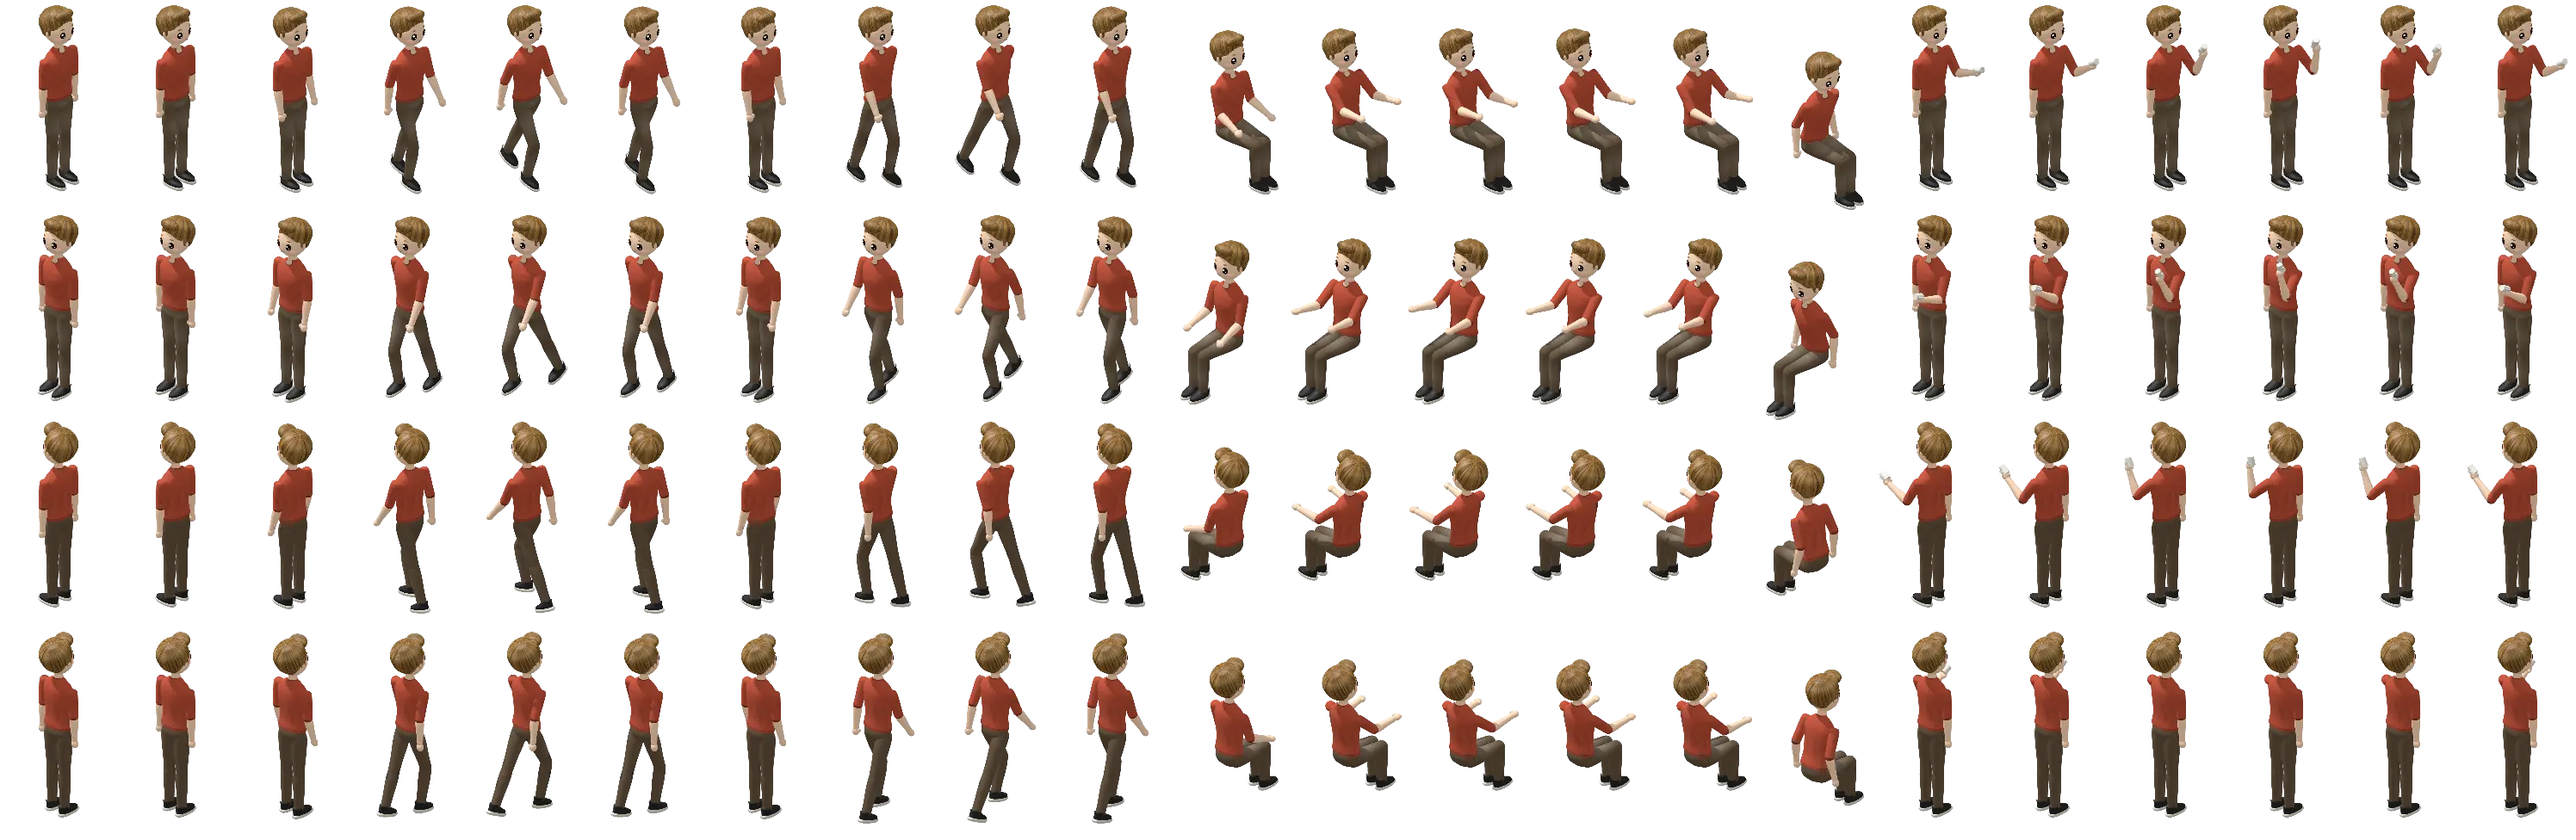
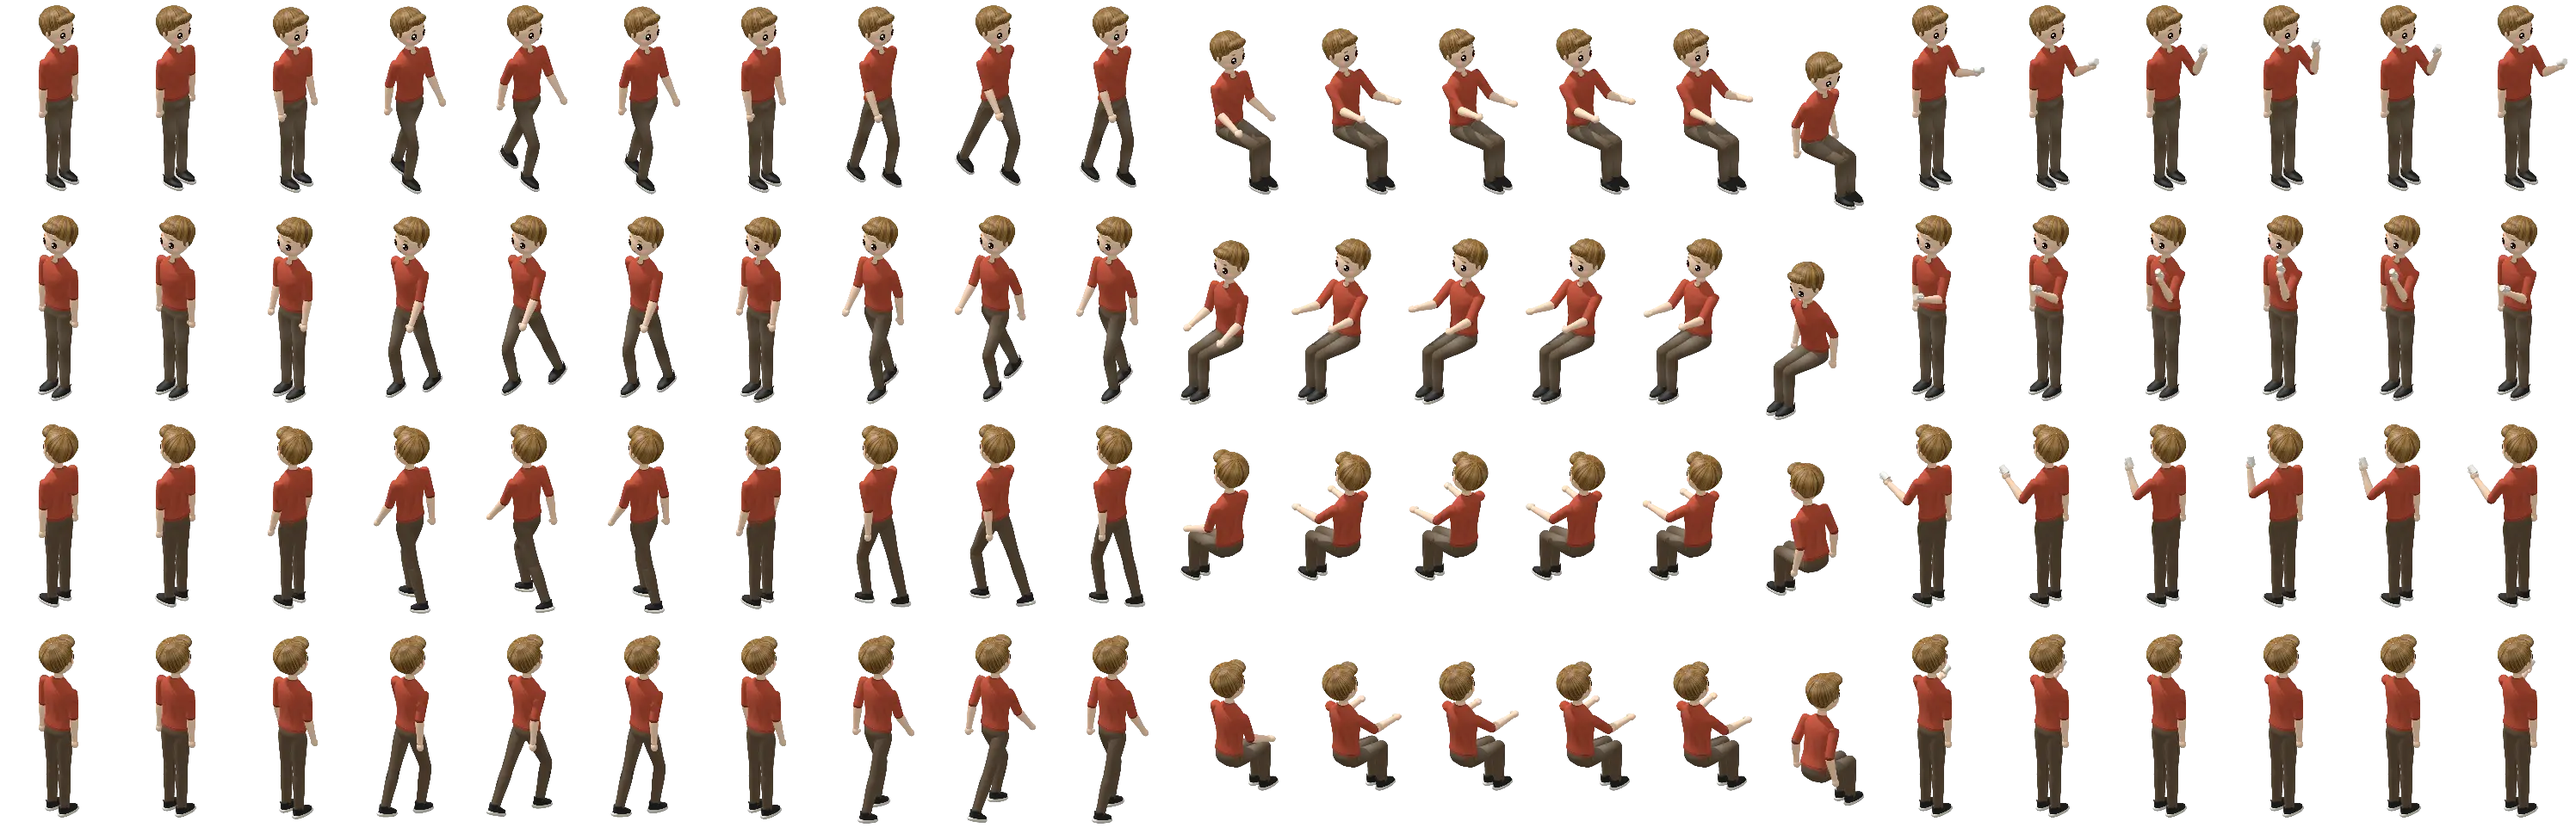
feat(rendering): show a name tag on the selected character
Replace the arrow above the selected character with a speech bubble
holding their first name, baked once per name into a canvas texture.
Keep the selection ring on the floor so furniture always covers it,
including when the character is seated.

Also fix the new character art: buns were clipped by the top of the
frame and the quiff looked like a bun from behind.

Refs: T:ART

diff --git a/src/rendering/characterSprites.ts b/src/rendering/characterSprites.ts
@@ -12,10 +12,11 @@ import {
   sheetOrigin,
   type SheetMeta,
 } from './characterSheets';
+import { firstNameOf, NAME_TAG, nameTagSize } from './nameTag';
 import { SELECTION_MARKER_COLOR } from './placeholderStyle';
-import { CHARACTER_SHADOW_DEPTH, gridToScreen } from './projection';
+import { CHARACTER_RING_DEPTH, CHARACTER_SHADOW_DEPTH, gridToScreen } from './projection';
 
-// Własne postacie low poly pre-renderowane do atlasów WebP (tools/furniture-render), jeden atlas
+// Własne postacie pre-renderowane do atlasów WebP (tools/furniture-render), jeden atlas
 // na osobę z listy postaci: wiersz = kierunek, kolumny = klatki kolejnych animacji.
 const ATLAS_URLS = import.meta.glob<string>('../assets/characters/*.webp', {
   eager: true,
@@ -120,41 +121,58 @@ function createAnimations<Kind extends PoseKind>(
 
 const WARNING_STATUSES: readonly AgentStatus[] = ['noRoute', 'deadlocked'];
 
-// Znacznik zaznaczenia (wariant D): pulsujący pierścień pod stopami i unosząca się strzałka nad
-// głową. Animują je tweeny (alfa, przesunięcie) — Graphics pierścienia przerysowujemy tylko przy
-// zmianie znacznika, a strzałka to tekstura wygenerowana raz na scenę.
-const CHEVRON_TEXTURE = 'selection-chevron';
-const CHEVRON_WIDTH = 16;
-const CHEVRON_HEIGHT = 12;
-// Strzałka nad czubkiem klatki postaci (punkt zaczepienia jest przy stopach).
-const CHEVRON_GAP = 2;
-// Siedząca postać jest niższa niż klatka — strzałka schodzi do głowy (px świata, z oka).
-const SEATED_CHEVRON_DROP = 20;
+// Znacznik zaznaczenia: pulsujący pierścień na podłodze i unoszący się dymek z imieniem nad głową.
+// Animują je tweeny (alfa, przesunięcie) — Graphics pierścienia przerysowujemy tylko przy zmianie
+// znacznika, a dymek to tekstura tworzona raz na imię, przy pierwszym zaznaczeniu.
+const NAME_TAG_TEXTURE_PREFIX = 'name-tag-';
+const NAME_TAG_SCALE = 2;
+const NAME_TAG_TEXT_COLOR = '#0d3321';
+const NAME_TAG_FONT = `600 ${String(NAME_TAG.fontSize * NAME_TAG_SCALE)}px -apple-system, BlinkMacSystemFont, 'Segoe UI', Roboto, ui-sans-serif, system-ui, sans-serif`;
+// Dymek nad czubkiem klatki postaci (punkt zaczepienia jest przy stopach).
+const NAME_TAG_GAP = 2;
+// Siedząca postać jest niższa niż klatka — dymek schodzi do głowy (px świata, z pomiaru atlasów).
+const SEATED_NAME_TAG_DROP = 16;
 const SEATED_POSES: readonly PoseKind[] = ['sitChair', 'typing', 'sitSofa'];
 const MARKER_PULSE_MS = 1400;
-const CHEVRON_LIFT = 6;
-// Strzałka to element interfejsu — zawsze nad biurem, także nad przednimi ścianami.
-const CHEVRON_DEPTH = 2_000_000;
+const NAME_TAG_LIFT = 3;
+// Dymek to element interfejsu — zawsze nad biurem, także nad przednimi ścianami.
+const NAME_TAG_DEPTH = 2_000_000;
 
-function ensureChevronTexture(scene: Phaser.Scene): void {
-  if (scene.textures.exists(CHEVRON_TEXTURE)) return;
-  const pad = 2;
-  const w = CHEVRON_WIDTH;
-  const h = CHEVRON_HEIGHT;
-  // Gruby „V” skierowany w dół.
-  const points = [
-    { x: pad, y: pad },
-    { x: pad + w * 0.32, y: pad },
-    { x: pad + w / 2, y: pad + h * 0.5 },
-    { x: pad + w * 0.68, y: pad },
-    { x: pad + w, y: pad },
-    { x: pad + w / 2, y: pad + h },
-  ].map((point) => new Phaser.Math.Vector2(point.x, point.y));
-  const graphics = scene.make.graphics({}, false);
-  graphics.fillStyle(SELECTION_MARKER_COLOR, 1).fillPoints(points, true);
-  graphics.generateTexture(CHEVRON_TEXTURE, w + pad * 2, h + pad * 2);
-  graphics.destroy();
-  scene.textures.get(CHEVRON_TEXTURE).setFilter(Phaser.Textures.FilterMode.LINEAR);
+function ensureNameTagTexture(scene: Phaser.Scene, label: string): string {
+  const key = `${NAME_TAG_TEXTURE_PREFIX}${label}`;
+  if (scene.textures.exists(key)) return key;
+  const measure = document.createElement('canvas').getContext('2d');
+  if (!measure) return key;
+  measure.font = NAME_TAG_FONT;
+  const size = nameTagSize(measure.measureText(label).width / NAME_TAG_SCALE);
+  const texture = scene.textures.createCanvas(
+    key,
+    size.width * NAME_TAG_SCALE,
+    size.height * NAME_TAG_SCALE,
+  );
+  if (!texture) return key;
+  const g = texture.getContext();
+  const width = size.width * NAME_TAG_SCALE;
+  const height = NAME_TAG.height * NAME_TAG_SCALE;
+  const tail = (NAME_TAG.tailWidth * NAME_TAG_SCALE) / 2;
+  g.fillStyle = `#${SELECTION_MARKER_COLOR.toString(16).padStart(6, '0')}`;
+  g.beginPath();
+  g.roundRect(0, 0, width, height, height / 2);
+  g.fill();
+  g.beginPath();
+  g.moveTo(width / 2 - tail, height - 1);
+  g.lineTo(width / 2 + tail, height - 1);
+  g.lineTo(width / 2, size.height * NAME_TAG_SCALE);
+  g.closePath();
+  g.fill();
+  g.fillStyle = NAME_TAG_TEXT_COLOR;
+  g.font = NAME_TAG_FONT;
+  g.textAlign = 'center';
+  g.textBaseline = 'middle';
+  g.fillText(label, width / 2, height / 2 + 1);
+  texture.refresh();
+  texture.setFilter(Phaser.Textures.FilterMode.LINEAR);
+  return key;
 }
 
 export type CharacterSprite = {
@@ -162,7 +180,9 @@ export type CharacterSprite = {
   shadow: Phaser.GameObjects.Image;
   shadowReady: boolean;
   ring: Phaser.GameObjects.Graphics;
-  chevron: Phaser.GameObjects.Image;
+  // Dymek z imieniem: tekstura ustawiana przy pierwszym zaznaczeniu.
+  nameTag: Phaser.GameObjects.Image;
+  nameTagReady: boolean;
   personId: PersonId;
   ready: boolean;
   // Atlas palenia: 'none' — jeszcze nieproszony; 'loading' — w toku (albo osoba nie ma atlasu).
@@ -172,14 +192,13 @@ export type CharacterSprite = {
   ringKey: string;
   // Tweeny znacznika zaznaczenia — działają tylko dla zaznaczonej postaci.
   markerTweens: Phaser.Tweens.Tween[];
-  // Bieżące uniesienie strzałki (animowane tweenem, stosowane przy ustawianiu pozycji).
+  // Bieżące uniesienie dymka (animowane tweenem, stosowane przy ustawianiu pozycji).
   lift: { value: number };
   destroy(): void;
 };
 
 export function createCharacterSprite(scene: Phaser.Scene, personId: PersonId): CharacterSprite {
-  ensureChevronTexture(scene);
-  const ring = scene.add.graphics();
+  const ring = scene.add.graphics().setDepth(CHARACTER_RING_DEPTH);
   const shadow = scene.add
     .image(0, 0, '__MISSING')
     .setOrigin(
@@ -194,17 +213,19 @@ export function createCharacterSprite(scene: Phaser.Scene, personId: PersonId): 
     .setOrigin(SHEET.anchorX / SHEET.frameWidth, SHEET.anchorY / SHEET.frameHeight)
     .setScale(1 / SHEET.scale)
     .setVisible(false);
-  const chevron = scene.add
-    .image(0, 0, CHEVRON_TEXTURE)
+  const nameTag = scene.add
+    .image(0, 0, '__MISSING')
     .setOrigin(0.5, 1)
-    .setDepth(CHEVRON_DEPTH)
+    .setScale(1 / NAME_TAG_SCALE)
+    .setDepth(NAME_TAG_DEPTH)
     .setVisible(false);
   const sprite: CharacterSprite = {
     body,
     shadow,
     shadowReady: false,
     ring,
-    chevron,
+    nameTag,
+    nameTagReady: false,
     personId,
     ready: false,
     smoke: 'none',
@@ -217,7 +238,7 @@ export function createCharacterSprite(scene: Phaser.Scene, personId: PersonId): 
       body.destroy();
       shadow.destroy();
       ring.destroy();
-      chevron.destroy();
+      nameTag.destroy();
     },
   };
   ensureShadowTexture(scene, () => {
@@ -253,7 +274,7 @@ function startMarkerTweens(sprite: CharacterSprite): void {
     }),
     tweens.add({
       targets: sprite.lift,
-      value: { from: 0, to: CHEVRON_LIFT },
+      value: { from: 0, to: NAME_TAG_LIFT },
       duration: MARKER_PULSE_MS / 2,
       ease: 'Sine.easeInOut',
       yoyo: true,
@@ -316,15 +337,21 @@ export function placeCharacterSprite(
   // Niewidoczna za ścianą: bez znaczników, które zdradzałyby ją przez ścianę.
   const visible = pose.alpha > 0;
   sprite.ring.setVisible(visible && (warning || selected));
-  sprite.ring.setPosition(screen.x, screen.y).setDepth(pose.depth - 0.001);
-  sprite.chevron.setVisible(visible && selected);
+  sprite.ring.setPosition(screen.x, screen.y);
+  if (selected && !sprite.nameTagReady) {
+    sprite.nameTag.setTexture(
+      ensureNameTagTexture(sprite.nameTag.scene, firstNameOf(sprite.personId)),
+    );
+    sprite.nameTagReady = true;
+  }
+  sprite.nameTag.setVisible(visible && selected);
   if (selected) {
-    sprite.chevron.setPosition(
+    sprite.nameTag.setPosition(
       screen.x,
       screen.y -
         SHEET.anchorY / SHEET.scale -
-        CHEVRON_GAP +
-        (SEATED_POSES.includes(pose.kind) ? SEATED_CHEVRON_DROP : 0) -
+        NAME_TAG_GAP +
+        (SEATED_POSES.includes(pose.kind) ? SEATED_NAME_TAG_DROP : 0) -
         sprite.lift.value,
     );
   }

diff --git a/src/rendering/projection.test.ts b/src/rendering/projection.test.ts
@@ -1,5 +1,7 @@
 import { describe, expect, it } from 'vitest';
 import {
+  CHARACTER_RING_DEPTH,
+  CHARACTER_SHADOW_DEPTH,
   cellAtScreen,
   cellCenter,
   depthOfFootprint,
@@ -10,6 +12,15 @@ import {
 } from './projection';
 
 describe('projection', () => {
+  it('znacznik pod stopami leży nad cieniem i pod każdym obiektem biura', () => {
+    expect(CHARACTER_RING_DEPTH).toBeGreaterThan(CHARACTER_SHADOW_DEPTH);
+    // Najniższy punkt świata: dojście na zewnątrz biura (x −2, y 10).
+    expect(CHARACTER_RING_DEPTH).toBeLessThan(depthOfPoint({ x: -2, y: 10 }));
+    expect(CHARACTER_RING_DEPTH).toBeLessThan(
+      depthOfFootprint({ x: 0, y: 0 }, { width: 1, height: 1 }),
+    );
+  });
+
   it('rzutuje według ART-04: screenX = (x−y)·32, screenY = (x+y)·16', () => {
     expect(gridToScreen({ x: 0, y: 0 })).toEqual({ x: 0, y: 0 });
     expect(gridToScreen({ x: 1, y: 0 })).toEqual({ x: 32, y: 16 });

diff --git a/src/rendering/nameTag.test.ts b/src/rendering/nameTag.test.ts
@@ -1,0 +1,23 @@
+import { describe, expect, it } from 'vitest';
+import { PEOPLE, PROLOGUE_OWNER } from '../domain/content/people';
+import { firstNameOf, NAME_TAG, nameTagSize } from './nameTag';
+
+describe('dymek z imieniem', () => {
+  it('pokazuje samo imię każdej osoby', () => {
+    expect(firstNameOf('ola-pikselska')).toBe('Ola');
+    expect(firstNameOf(PROLOGUE_OWNER.id)).toBe('Janusz');
+    for (const person of PEOPLE) {
+      expect(firstNameOf(person.id)).toMatch(/^\p{L}+$/u);
+    }
+  });
+
+  it('nieznana osoba nie dostaje imienia', () => {
+    expect(firstNameOf('nie-ma-takiej')).toBe('');
+  });
+
+  it('mieści tekst z marginesami i dzióbek', () => {
+    const size = nameTagSize(30.2);
+    expect(size.width).toBeGreaterThanOrEqual(30.2 + NAME_TAG.paddingX * 2);
+    expect(size.height).toBeGreaterThanOrEqual(NAME_TAG.height + NAME_TAG.tailHeight);
+  });
+});

diff --git a/tools/furniture-render/person.js b/tools/furniture-render/person.js
@@ -411,8 +411,8 @@ function addHair(head, onFace, hairStyle, hairMat, accentMat) {
     fringe(0.042, 0.034);
     nape();
     sideburns();
-    add(ball(0.058, 0.054, 0.058, hairMat, 0, 0.248, -0.062));
-    add(ball(0.03, 0.012, 0.03, accentMat, 0, 0.207, -0.048));
+    add(ball(0.052, 0.048, 0.052, hairMat, 0, 0.226, -0.066));
+    add(ball(0.03, 0.012, 0.03, accentMat, 0, 0.19, -0.052));
   }
   if (hairStyle === 'ponytail') {
     cap();
@@ -443,7 +443,7 @@ function addHair(head, onFace, hairStyle, hairMat, accentMat) {
     cap(-0.42);
     nape();
     sideburns();
-    const quiff = ball(0.072, 0.04, 0.056, hairMat, 0, 0.232, 0.052);
+    const quiff = ball(0.072, 0.036, 0.05, hairMat, 0, 0.212, 0.07);
     quiff.rotation.x = -0.5;
     add(quiff);
   }

diff --git a/src/rendering/nameTag.ts b/src/rendering/nameTag.ts
@@ -1,0 +1,22 @@
+import { personById, type PersonId } from '../domain/content/people';
+
+// Dymek z imieniem nad zaznaczoną postacią: treść i wymiary (px świata). Rysowanie — characterSprites.
+export const NAME_TAG = {
+  fontSize: 10.5,
+  paddingX: 6,
+  height: 17,
+  // Dzióbek wskazujący głowę.
+  tailWidth: 8,
+  tailHeight: 4.5,
+} as const;
+
+export function firstNameOf(personId: PersonId): string {
+  return personById(personId)?.name.split(' ')[0] ?? '';
+}
+
+export function nameTagSize(textWidth: number): { width: number; height: number } {
+  return {
+    width: Math.ceil(textWidth + NAME_TAG.paddingX * 2),
+    height: Math.ceil(NAME_TAG.height + NAME_TAG.tailHeight),
+  };
+}

diff --git a/src/rendering/projection.ts b/src/rendering/projection.ts
@@ -15,6 +15,9 @@ export const ROOM_FRONT_DEPTH = 1_000_000;
 // Podłoga pod całą sceną; cienie postaci leżą tuż nad nią, więc nigdy nie wchodzą na meble.
 export const FLOOR_DEPTH = -1000;
 export const CHARACTER_SHADOW_DEPTH = FLOOR_DEPTH + 0.5;
+// Znacznik pod stopami leży na podłodze, nad cieniem: meble zawsze go przykrywają, także przy
+// siedzącej postaci, której głębokość jest większa niż krzesła.
+export const CHARACTER_RING_DEPTH = CHARACTER_SHADOW_DEPTH + 0.1;
 
 export function gridToScreen(point: GridPoint): ScreenPoint {
   return {
